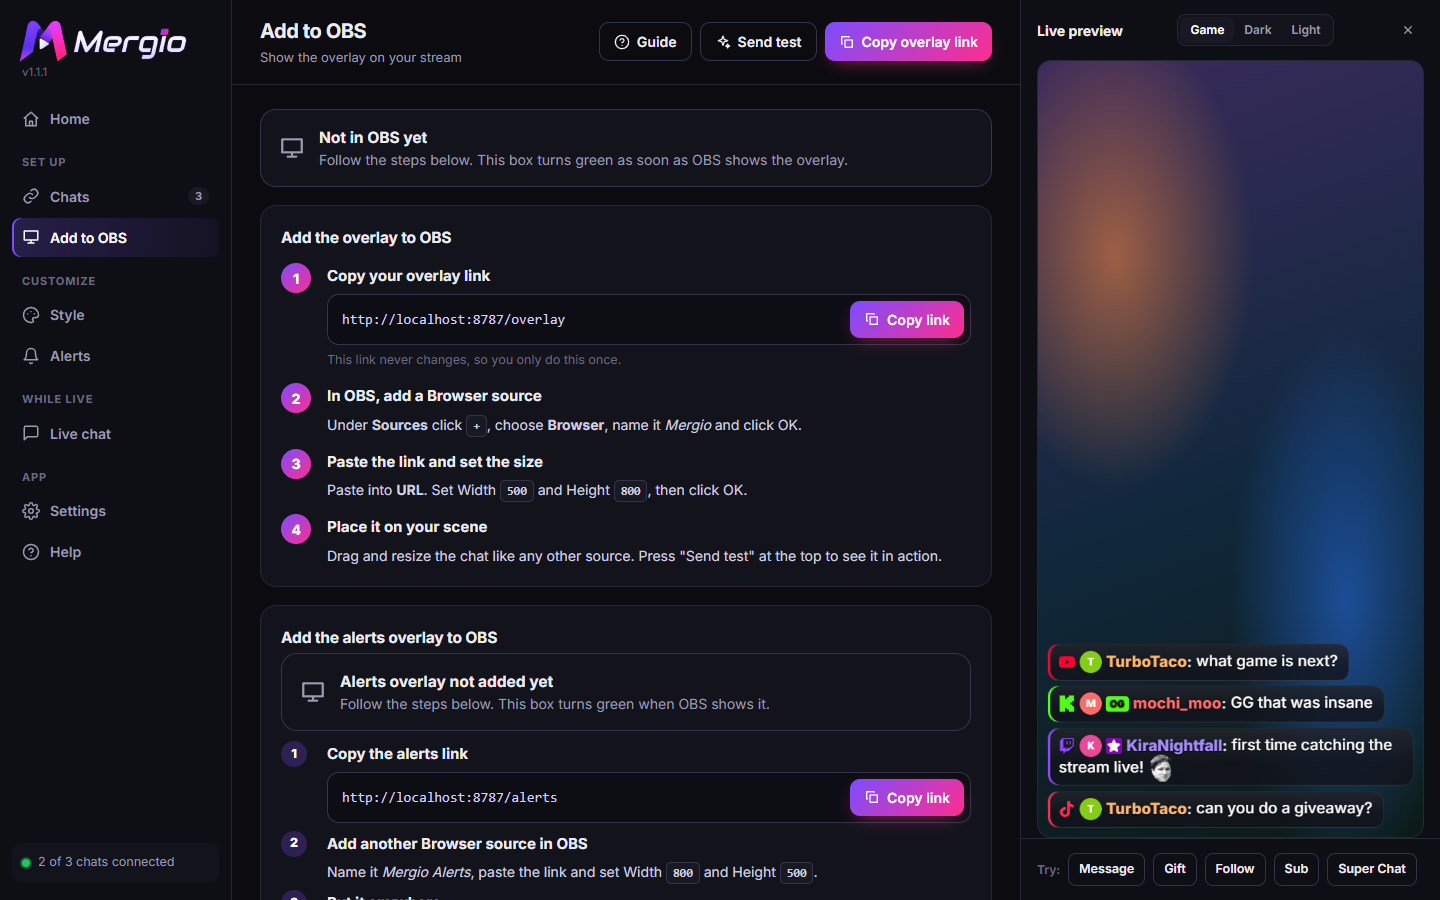
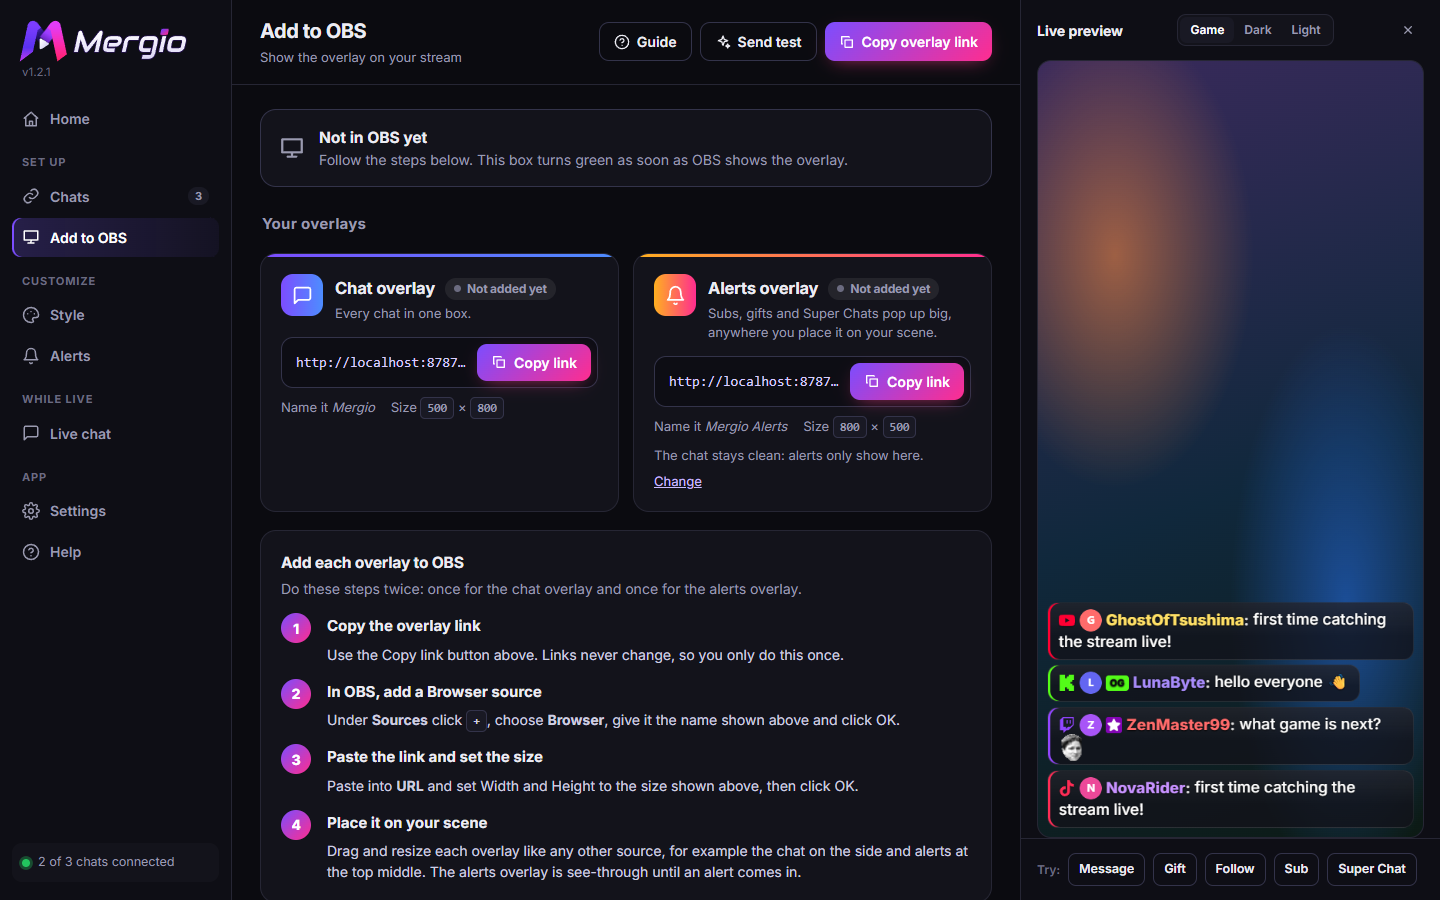
Make the alerts overlay stand out on Add to OBS (#24)
* Show the chat and alerts overlays side by side on Add to OBS

* Add an alerts overlay tile to Home

* Describe both overlays in the Add to OBS guide

Changed region(s): [[0.1875, 0.2178, 0.6875, 1.0], [0.7188, 0.6533, 1.0, 0.9333]]

diff --git a/public/dashboard/pages/obs.js b/public/dashboard/pages/obs.js
@@ -1,36 +1,71 @@
-/* Add to OBS: live detection of the overlay plus step-by-step instructions. */
+/* Add to OBS: the two overlays (chat and alerts) side by side, live detection, and step-by-step instructions. */
 (() => {
   const { h, icon } = MG;
+  const alertsOn = () => MG.st.settings.alerts.placement !== 'chat';
 
   function status() {
-    const o = MG.overlays;
-    if (o.obs) return h('div', { class: 'banner ok' }, icon('check'), h('div', {}, h('b', { text: 'Mergio is showing in OBS' }), h('span', { text: 'Your overlay is connected. Style changes appear in OBS instantly.' })));
+    const o = MG.overlays, a = o.alerts || {};
+    if (o.obs && alertsOn() && !a.obs) return h('div', { class: 'banner warn' }, icon('info'), h('div', {}, h('b', { text: 'The chat is in OBS. Add the alerts overlay too' }), h('span', { text: 'Alerts are set to show on their own overlay, so add it as a second Browser source (see below).' })));
+    if (o.obs) return h('div', { class: 'banner ok' }, icon('check'), h('div', {}, h('b', { text: 'Mergio is showing in OBS' }), h('span', { text: alertsOn() ? 'Both overlays are connected. Changes appear in OBS instantly.' : 'Your overlay is connected. Style changes appear in OBS instantly.' })));
     if (o.count) return h('div', { class: 'banner warn' }, icon('info'), h('div', {}, h('b', { text: 'The overlay is open, but not in OBS' }), h('span', { text: "It's open in a browser or another streaming app. If that's your streaming app, you're good to go." })));
     return h('div', { class: 'banner' }, icon('monitor'), h('div', {}, h('b', { text: 'Not in OBS yet' }), h('span', { text: 'Follow the steps below. This box turns green as soon as OBS shows the overlay.' })));
+  }
+
+  /** Status pill for one overlay: in OBS, open elsewhere, or not added. */
+  function pill(o, off) {
+    if (off) return h('span', { class: 'pill' }, 'Off');
+    if (o?.obs) return h('span', { class: 'pill live' }, h('span', { class: 'dot' }), 'In OBS');
+    if (o?.count) return h('span', { class: 'pill waiting' }, h('span', { class: 'dot' }), 'Open, not in OBS');
+    return h('span', { class: 'pill' }, h('span', { class: 'dot' }), 'Not added yet');
+  }
+
+  /** One overlay card: what it is, its link and the size to use in OBS. */
+  function overlayCard({ cls, ic, title, text, o, url, name, w, ht, off, extra }) {
+    return h('section', { class: `card ov ${cls} ${off ? 'off' : ''}` },
+      h('div', { class: 'ov-h' }, h('span', { class: 'ov-ic' }, icon(ic)), h('div', {}, h('h2', {}, title, pill(o, off)), h('p', { class: 'sub', text }))),
+      off ? extra : h('div', { class: 'ov-b' },
+        h('div', { class: 'urlbox' }, h('code', { text: url }), h('button', { class: 'btn primary', onclick: () => MG.copy(url) }, icon('copy'), 'Copy link')),
+        h('div', { class: 'ov-meta' }, h('span', {}, 'Name it ', h('i', { text: name })), h('span', {}, 'Size ', h('kbd', { text: String(w) }), ' × ', h('kbd', { text: String(ht) }))),
+        extra || null));
+  }
+
+  function overlays() {
+    const st = MG.st;
+    const on = alertsOn();
+    const turnOn = (id, msg) => { MG.save('alerts', 'placement', id); MG.render(); MG.toast(msg); };
+    return h('div', { class: 'ovs', id: 'obsOverlays' },
+      overlayCard({ cls: 'ov-chat', ic: 'chat', title: 'Chat overlay', text: 'Every chat in one box.' + (on ? '' : ' Alerts show inside it too.'), o: MG.overlays, url: st.overlayUrl, name: 'Mergio', w: 500, ht: 800 }),
+      overlayCard({ cls: 'ov-alerts', ic: 'bell', title: 'Alerts overlay', text: 'Subs, gifts and Super Chats pop up big, anywhere you place it on your scene.', o: MG.overlays.alerts, url: st.alertsUrl, name: 'Mergio Alerts', w: 800, ht: 500, off: !on,
+        extra: on
+          ? h('div', { class: 'ov-meta' }, h('span', { text: st.settings.alerts.placement === 'both' ? 'Alerts also show as a small line in the chat.' : 'The chat stays clean: alerts only show here.' }),
+            h('a', { href: '#alerts', onclick: e => { e.preventDefault(); MG.go('alerts'); } }, 'Change'))
+          : h('div', { class: 'ov-b' },
+            h('p', { class: 'hint', text: 'Off right now: alerts show inside the chat. Turn it on to give them their own spot on your stream.' }),
+            h('div', { class: 'btn-row' },
+              h('button', { class: 'btn primary', onclick: () => turnOn('overlay', 'Alerts overlay is on. Copy its link and add it to OBS.') }, icon('bell'), 'Turn on alerts overlay'),
+              h('button', { class: 'btn ghost', onclick: () => turnOn('both', 'Alerts show in the chat and on their own overlay') }, 'Use both'))) }));
   }
 
   function render(c) {
     const st = MG.st;
     const url = st.overlayUrl;
     const dash = `http://localhost:${st.settings.advanced.port}/dashboard`;
+    const two = alertsOn();
     c.append(h('div', { id: 'obsStatus' }, status()));
+    c.append(h('h2', { class: 'section-h', text: 'Your overlays' }));
+    c.append(overlays());
 
-    c.append(h('section', { class: 'card' }, h('h2', { text: 'Add the overlay to OBS' }),
+    c.append(h('section', { class: 'card' }, h('h2', { text: two ? 'Add each overlay to OBS' : 'Add the overlay to OBS' }),
+      two ? h('p', { class: 'sub', text: 'Do these steps twice: once for the chat overlay and once for the alerts overlay.' }) : null,
       h('ol', { class: 'big-steps' },
-        h('li', {}, h('b', { text: 'Copy your overlay link' }),
-          h('div', { class: 'urlbox' }, h('code', { text: url }), h('button', { class: 'btn primary', onclick: () => MG.copy(url) }, icon('copy'), 'Copy link')),
-          h('span', { class: 'hint', text: "This link never changes, so you only do this once." })),
+        h('li', {}, h('b', { text: 'Copy the overlay link' }),
+          h('span', { text: 'Use the Copy link button above. Links never change, so you only do this once.' })),
         h('li', {}, h('b', { text: 'In OBS, add a Browser source' }),
-          h('span', {}, 'Under ', h('b', { text: 'Sources' }), ' click ', h('kbd', { text: '+' }), ', choose ', h('b', { text: 'Browser' }), ', name it ', h('i', { text: 'Mergio' }), ' and click OK.')),
+          h('span', {}, 'Under ', h('b', { text: 'Sources' }), ' click ', h('kbd', { text: '+' }), ', choose ', h('b', { text: 'Browser' }), ', give it the name shown above and click OK.')),
         h('li', {}, h('b', { text: 'Paste the link and set the size' }),
-          h('span', {}, 'Paste into ', h('b', { text: 'URL' }), '. Set Width ', h('kbd', { text: '500' }), ' and Height ', h('kbd', { text: '800' }), ', then click OK.')),
+          h('span', {}, 'Paste into ', h('b', { text: 'URL' }), ' and set Width and Height to the size shown above, then click OK.')),
         h('li', {}, h('b', { text: 'Place it on your scene' }),
-          h('span', { text: 'Drag and resize the chat like any other source. Press "Send test" at the top to see it in action.' })))));
-
-    if (st.settings.alerts.placement !== 'chat') c.append(MG.alertsSetup());
-    else c.append(h('details', { class: 'card fold' }, h('summary', {}, h('b', { text: 'Want alerts on their own overlay?' }), h('span', { text: 'Place subs and gifts anywhere on your scene' })),
-      h('p', { class: 'sub', text: 'Mergio can show alerts as a separate browser source instead of inside the chat.' }),
-      h('button', { class: 'btn', onclick: () => MG.go('alerts') }, icon('bell'), 'Choose on the Alerts page')));
+          h('span', { text: two ? 'Drag and resize each overlay like any other source, for example the chat on the side and alerts at the top middle. The alerts overlay is see-through until an alert comes in.' : 'Drag and resize the chat like any other source. Press "Send test" at the top to see it in action.' })))));
 
     c.append(h('section', { class: 'card' }, h('h2', { text: 'Control Mergio from inside OBS (optional)' }),
       h('p', { class: 'sub', text: 'Put this control panel in an OBS dock to read every chat and change settings without leaving OBS.' }),
@@ -58,6 +93,9 @@
   }
 
   MG.page({ id: 'obs', order: 20, group: 'setup', label: 'Add to OBS', icon: 'monitor', title: 'Add to OBS', subtitle: 'Show the overlay on your stream',
-    badge: () => (MG.overlays.obs ? { text: '✓', cls: 'good' } : null), render });
-  MG.on('overlays', () => { const el = document.getElementById('obsStatus'); if (el) { el.textContent = ''; el.append(status()); } });
+    badge: () => (MG.overlays.obs && (!MG.st || !alertsOn() || MG.overlays.alerts?.obs) ? { text: '✓', cls: 'good' } : null), render });
+  MG.on('overlays', () => {
+    const el = document.getElementById('obsStatus'); if (el) { el.textContent = ''; el.append(status()); }
+    const ov = document.getElementById('obsOverlays'); if (ov) ov.replaceWith(overlays());
+  });
 })();

diff --git a/public/dashboard/dashboard.css b/public/dashboard/dashboard.css
@@ -291,7 +291,9 @@ button.link { border: 0; background: none; padding: 0; color: #b9a8ff; text-deco
 .ready-ic { width: 52px; height: 52px; border-radius: 50%; display: grid; place-items: center; background: rgba(34,197,94,.18); color: #86efac; flex: none; }
 .ready-ic svg { width: 28px; height: 28px; }
 .ready p.sub { margin: 0; }
-.tiles { display: grid; grid-template-columns: repeat(auto-fit, minmax(180px, 1fr)); gap: 12px; }
+.tiles { display: grid; grid-template-columns: repeat(4, minmax(0, 1fr)); gap: 12px; }
+@media (max-width: 1600px) { .tiles { grid-template-columns: repeat(2, minmax(0, 1fr)); } }
+@media (max-width: 560px) { .tiles { grid-template-columns: 1fr; } }
 .tile { display: grid; grid-template-columns: auto 1fr; grid-template-rows: auto auto; column-gap: 12px; align-items: center; text-align: left; padding: 16px; border-radius: 16px; background: var(--panel); border: 1px solid var(--line); cursor: pointer; transition: border-color .15s, transform .15s; }
 .tile:hover { border-color: #46466a; transform: translateY(-1px); }
 .tile .ic { grid-row: span 2; width: 40px; height: 40px; border-radius: 12px; display: grid; place-items: center; background: var(--panel-2); color: var(--muted); }
@@ -459,3 +461,22 @@ body.quit .offline-bar::after { content: ' (You closed it from Settings.)'; }
 .pill-ok svg { width: 15px; height: 15px; }
 .install-how { max-width: 340px; text-align: right; }
 @media (max-width: 1280px) { .top-actions #btnInstall span { display: none; } }
+/* Add to OBS: chat and alerts overlays side by side */
+.ovs { display: grid; grid-template-columns: repeat(2, minmax(0, 1fr)); gap: 14px; }
+.ov { display: flex; flex-direction: column; gap: 14px; position: relative; overflow: hidden; }
+.ov::before { content: ''; position: absolute; inset: 0 0 auto; height: 3px; background: var(--ovc); }
+.ov-chat { --ovc: linear-gradient(90deg, var(--accent), #4d8dff); }
+.ov-alerts { --ovc: linear-gradient(90deg, #ffb020, var(--accent-2)); }
+.ov.off::before { opacity: .35; }
+.ov-h { display: grid; grid-template-columns: auto minmax(0, 1fr); gap: 12px; align-items: start; }
+.ov-h h2 { margin: 2px 0 3px; font-size: 16.5px; display: flex; flex-wrap: wrap; align-items: center; gap: 6px 10px; }
+.ov-h .sub { margin: 0; color: var(--muted); font-size: 13px; line-height: 1.45; }
+.ov-ic { width: 42px; height: 42px; border-radius: 12px; display: grid; place-items: center; color: #fff; background: var(--ovc); }
+.ov-ic svg { width: 21px; height: 21px; }
+.ov.off .ov-ic { filter: grayscale(.7) brightness(.8); }
+.ov-b { display: grid; grid-template-columns: minmax(0, 1fr); gap: 10px; }
+.ov .urlbox code { min-width: 0; }
+.ov-meta { display: flex; flex-wrap: wrap; align-items: center; gap: 6px 16px; color: var(--muted); font-size: 13px; }
+.ov-meta a { color: #c9bcff; }
+.ov .hint { margin: 0; }
+@media (max-width: 900px) { .ovs { grid-template-columns: 1fr; } }

diff --git a/public/dashboard/pages/home.js b/public/dashboard/pages/home.js
@@ -41,7 +41,10 @@
     const ov = MG.overlays;
     c.append(h('div', { class: 'tiles' },
       tile('chat', 'Chats', st.sources.length ? `${live} of ${st.sources.length} connected` : 'None yet', live ? 'ok' : st.sources.length ? 'warn' : '', 'chats'),
-      tile('eye', 'Overlay', ov.obs ? 'Showing in OBS' : ov.count ? 'Open in a browser' : 'Not open right now', ov.obs ? 'ok' : ov.count ? 'warn' : '', 'obs'),
+      tile('eye', 'Chat overlay', ov.obs ? 'Showing in OBS' : ov.count ? 'Open in a browser' : 'Not open right now', ov.obs ? 'ok' : ov.count ? 'warn' : '', 'obs'),
+      st.settings.alerts.placement === 'chat'
+        ? tile('bell', 'Alerts overlay', 'Off (alerts in chat)', '', 'obs')
+        : tile('bell', 'Alerts overlay', ov.alerts?.obs ? 'Showing in OBS' : ov.alerts?.count ? 'Open in a browser' : 'Not in OBS yet', ov.alerts?.obs ? 'ok' : 'warn', 'obs'),
       tile('sparkle', 'Messages', msgs ? `${msgs.toLocaleString()} this session` : 'Waiting for chat', msgs ? 'ok' : '', 'live')));
 
     // ----- your chats -----

diff --git a/README.md b/README.md
@@ -215,15 +215,19 @@ Below that, **Which alerts and messages to show** lists everything each platform
 
 ### Step 7 · Add the overlay to OBS
 
-1. In Mergio, open **Add to OBS** and click **Copy link** next to your overlay link (`http://localhost:8787/overlay`).
+The **Add to OBS** page shows your two overlays side by side: the **Chat overlay** and the **Alerts overlay**, each with its link, the size to use and whether OBS is showing it. If the alerts overlay is off, click **Turn on alerts overlay** right there (or **Use both** to keep a small line in the chat as well).
+
+1. In Mergio, open **Add to OBS** and click **Copy link** on the Chat overlay card (`http://localhost:8787/overlay`).
 2. In OBS, click **+** under *Sources* and choose **Browser**. Name it *Mergio* and click **OK**.
 3. Paste the link into **URL**. Set **Width** `500` and **Height** `800` (any size works; the chat fills the box).
 4. Leave everything else as it is and click **OK**.
 5. Move and resize the chat on your scene like any other source.
 
+Using the alerts overlay? Repeat these steps with the Alerts overlay link, name it *Mergio Alerts* and use **800 × 500**.
+
 The **Add to OBS** page turns green (*Mergio is showing in OBS*) as soon as it works.
 
-<div align="center"><img src="docs/guide/05-add-to-obs.png" alt="The Add to OBS page with the overlay link" width="820"></div>
+<div align="center"><img src="docs/guide/05-add-to-obs.png" alt="The Add to OBS page with the chat overlay and alerts overlay cards" width="820"></div>
 
 The link never changes, and style changes reach OBS instantly, so you never have to copy it again. It also works in Streamlabs Desktop, Meld, vMix, XSplit and TikTok LIVE Studio (add it as a browser or web source).
 
